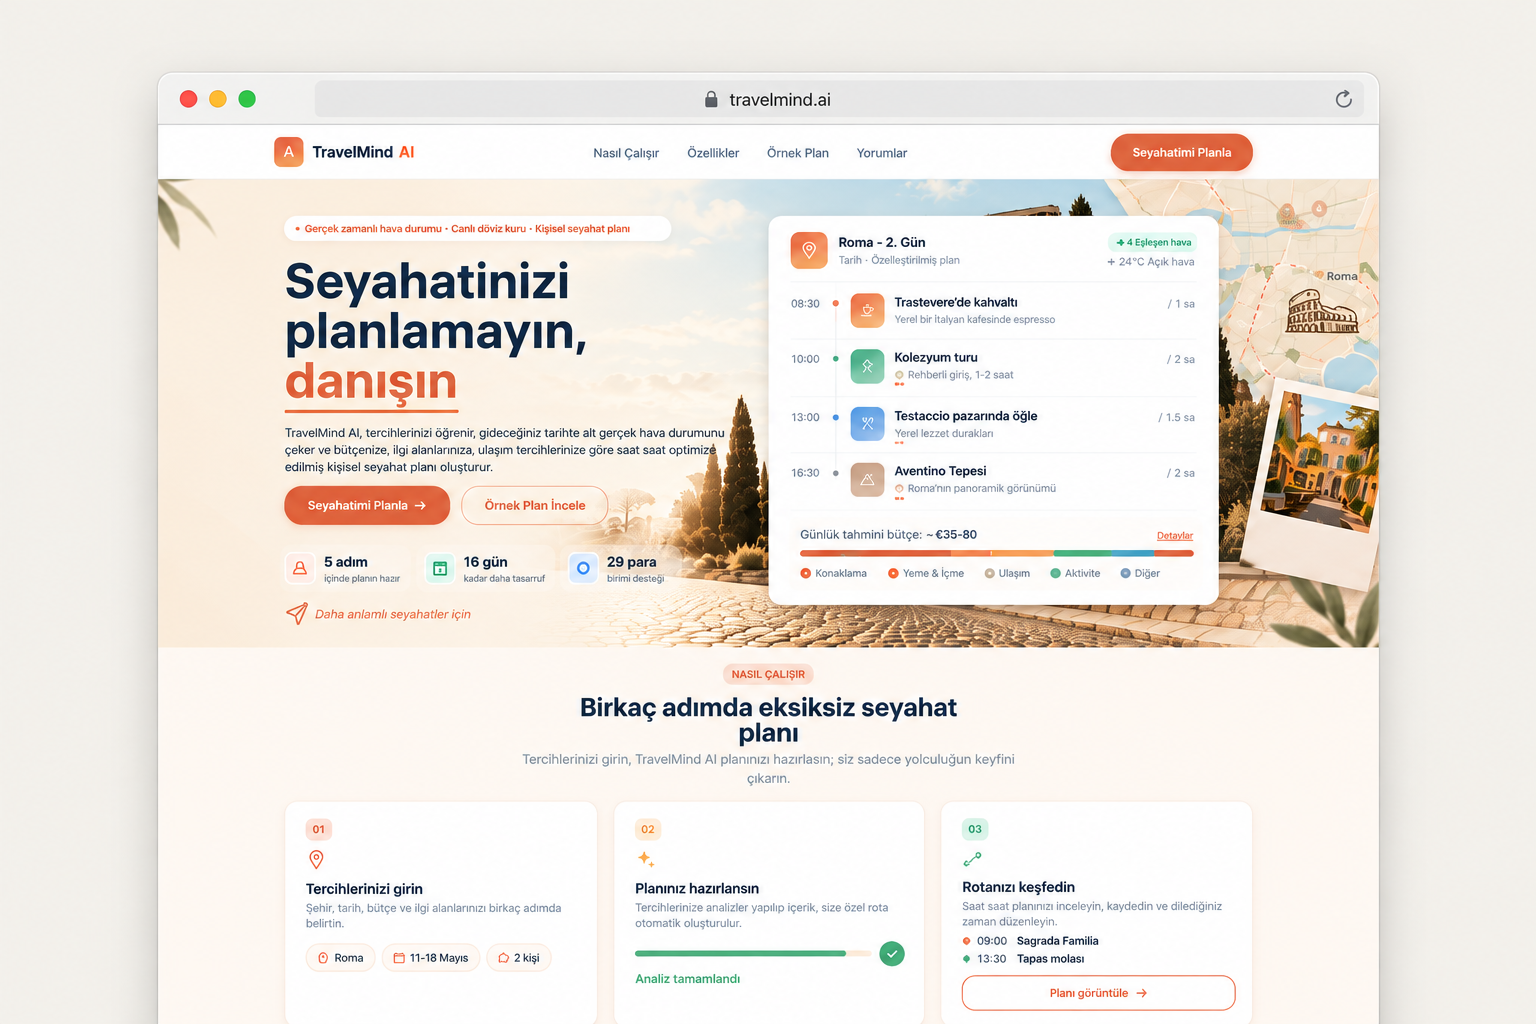
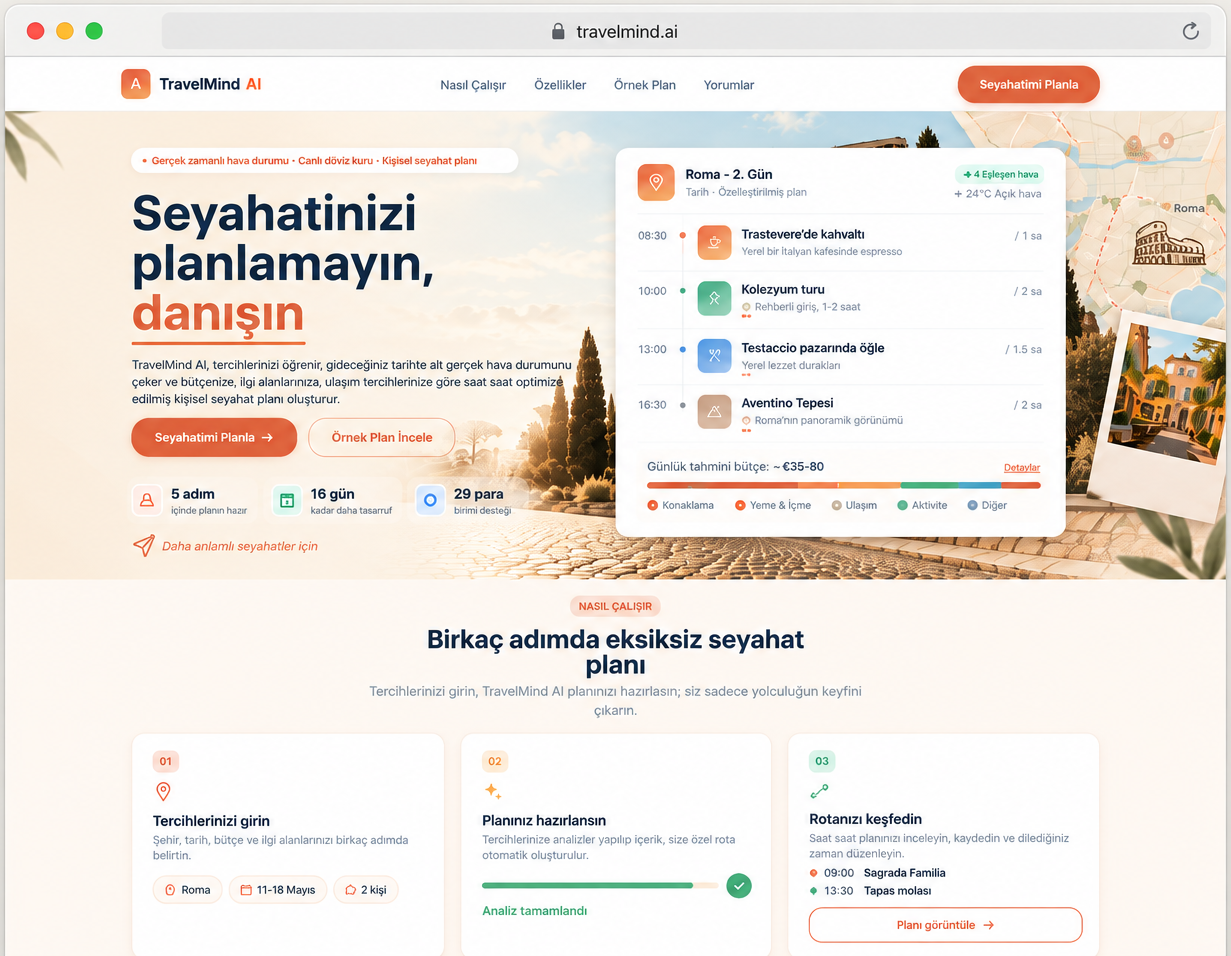
Redesign projects section layout and highlights
- Move "What I built" below the image and details as numbered cards
- Crop screenshot margins and frame it in a card matching text height
- Add technologies label, restyle tech tags and project CTA
- Tighten vertical spacing in project details

diff --git a/components/projects.tsx b/components/projects.tsx
@@ -22,7 +22,9 @@ const tr = {
   featuredLabel: "Öne Çıkan Proje",
   roleLabel: "Rol",
   focusLabel: "Odak",
+  techLabel: "Kullanılan teknolojiler",
   highlightsLabel: "Neler yaptım",
+  highlightsSummary: "Tasarım · Geliştirme · Entegrasyon",
   details: "Projeyi incele",
   screenshotAlt: "TravelMind AI ana sayfasının ekran görüntüsü",
   featured: [
@@ -33,9 +35,18 @@ const tr = {
       role: "UI tasarımı & Frontend geliştirme",
       focus: ["Kişiselleştirme", "Kullanıcı deneyimi", "Responsive yapı"],
       highlights: [
-        "Bütçe, süre ve ilgi alanlarını 5 adımlı bir sihirbazla toplayıp OpenAI API ile saat saat günlük rota ve bütçe dağılımı oluşturan akışı geliştirdim.",
-        "Open-Meteo ile gerçek zamanlı hava durumunu, open.er-api ile 30+ para birimli döviz çeviriciyi API anahtarı gerektirmeden entegre ettim.",
-        "Framework kullanmadan, bağımlılıksız vanilla JavaScript ile giriş/kayıt, yorum sistemi ve PDF indirme özelliklerini geliştirdim.",
+        {
+          title: "Planlama akışı",
+          text: "Bütçe, süre ve ilgi alanlarını toplayan 5 adımlı sihirbazı; saatlik rota ve bütçe dağılımı üretecek şekilde geliştirdim.",
+        },
+        {
+          title: "Gerçek veri entegrasyonları",
+          text: "Open-Meteo hava durumu ve 30+ para birimini destekleyen döviz servislerini API anahtarı gerektirmeden entegre ettim.",
+        },
+        {
+          title: "Bağımsız frontend yapısı",
+          text: "Vanilla JavaScript ile giriş/kayıt, yorum sistemi ve PDF indirme özelliklerini bağımlılıksız olarak geliştirdim.",
+        },
       ],
       type: "Web uygulaması",
     },
@@ -48,7 +59,9 @@ const en: typeof tr = {
   featuredLabel: "Featured Project",
   roleLabel: "Role",
   focusLabel: "Focus",
+  techLabel: "Technologies used",
   highlightsLabel: "What I built",
+  highlightsSummary: "Design · Development · Integration",
   details: "View project",
   screenshotAlt: "Screenshot of the TravelMind AI homepage",
   featured: [
@@ -59,9 +72,18 @@ const en: typeof tr = {
       role: "UI design & Frontend development",
       focus: ["Personalization", "User experience", "Responsive layout"],
       highlights: [
-        "Built a 5-step wizard that collects budget, duration and interests, then uses the OpenAI API to generate an hour-by-hour daily itinerary with a budget breakdown.",
-        "Integrated real-time weather via Open-Meteo and a currency converter for 30+ currencies via open.er-api, with no API keys required.",
-        "Built sign-in/sign-up, a comment system and PDF export in dependency-free vanilla JavaScript, without any framework.",
+        {
+          title: "Planning flow",
+          text: "Built a 5-step wizard that collects budget, duration and interests, then generates an hourly itinerary and budget breakdown.",
+        },
+        {
+          title: "Real-data integrations",
+          text: "Integrated Open-Meteo weather and a currency service supporting 30+ currencies, with no API keys required.",
+        },
+        {
+          title: "Standalone frontend",
+          text: "Built sign-in/sign-up, a comment system and PDF export in vanilla JavaScript with zero dependencies.",
+        },
       ],
       type: "Web app",
     },
@@ -90,79 +112,116 @@ export function Projects() {
 
         <div className="flex flex-col gap-20 sm:gap-24">
           {t.featured.map((project) => (
-            <div
-              key={project.slug}
-              className="grid items-center gap-10 lg:grid-cols-[1.15fr_1fr] lg:gap-14 xl:gap-16"
-            >
-              {/* Görselin kendi tarayıcı çerçevesi ve arka planı var; üstüne ek çerçeve koymuyoruz. */}
-              <div>
-                <a
-                  href={project.liveUrl}
-                  target="_blank"
-                  rel="noreferrer"
-                  className="block overflow-hidden rounded-2xl border border-border"
-                >
-                  <Image
-                    src={project.image}
-                    alt={t.screenshotAlt}
-                    placeholder="blur"
-                    sizes="(min-width: 1024px) 640px, 100vw"
-                    className="h-auto w-full"
-                  />
-                </a>
-                <p className="mt-4 text-sm text-body">
-                  {project.type} · {project.year}
-                </p>
-              </div>
-
-              <div>
-                <p className="font-heading text-xs font-semibold tracking-[0.12em] text-body uppercase">
-                  {t.featuredLabel}
-                </p>
-                <h3 className="mt-3 text-4xl leading-tight font-bold sm:text-5xl lg:text-[56px]">
-                  {project.title}
-                </h3>
-                <p className="mt-5 max-w-xl text-base leading-relaxed text-body sm:text-lg">{project.tagline}</p>
-
-                <dl className="mt-8 grid grid-cols-[auto_auto_1fr] gap-x-4 gap-y-3 border-t border-border pt-8 text-[15px] sm:text-base">
-                  <dt className="font-heading font-bold text-title">{t.roleLabel}</dt>
-                  <dd className="text-body" aria-hidden="true">—</dd>
-                  <dd className="text-body">{project.role}</dd>
-                  <dt className="font-heading font-bold text-title">{t.focusLabel}</dt>
-                  <dd className="text-body" aria-hidden="true">—</dd>
-                  <dd className="text-body">{project.focus.join(" · ")}</dd>
-                </dl>
-
-                <p className="mt-8 font-heading text-xs font-semibold tracking-[0.12em] text-body uppercase">
-                  {t.highlightsLabel}
-                </p>
-                <ul className="mt-3 flex flex-col gap-2.5 text-[15px] leading-relaxed text-body">
-                  {project.highlights.map((item) => (
-                    <li key={item} className="flex gap-3">
-                      <span className="mt-[9px] size-1.5 shrink-0 bg-primary" aria-hidden="true" />
-                      {item}
-                    </li>
-                  ))}
-                </ul>
-
-                <ul className="mt-7 flex flex-wrap gap-3">
-                  {project.tech.map((tech) => (
-                    <li key={tech} className="rounded-full border border-border px-4 py-2 text-sm text-title">
-                      {tech}
-                    </li>
-                  ))}
-                </ul>
-
-                <div className="mt-9">
+            <div key={project.slug}>
+              <div className="grid gap-10 lg:grid-cols-[1.15fr_1fr] lg:gap-14 xl:gap-16">
+                {/* lg'de satır yüksekliğini metin sütunu belirler; görsel mutlak konumlanıp bu yüksekliği doldurur. */}
+                <div className="flex flex-col">
                   <a
                     href={project.liveUrl}
                     target="_blank"
                     rel="noreferrer"
-                    className="inline-flex items-center gap-2 rounded-full bg-primary px-7 py-3.5 text-base font-semibold text-white transition-colors hover:bg-primary-hover"
+                    className="relative block rounded-2xl border border-border bg-surface p-2.5 transition-colors hover:border-accent sm:p-3 lg:min-h-80 lg:flex-1"
                   >
-                    {t.details} →
+                    <div className="lg:absolute lg:inset-3">
+                      <Image
+                        src={project.image}
+                        alt={t.screenshotAlt}
+                        placeholder="blur"
+                        sizes="(min-width: 1024px) 640px, 100vw"
+                        className="h-auto w-full rounded-xl border border-border lg:h-full lg:object-cover lg:object-top"
+                      />
+                    </div>
                   </a>
+                  <p className="mt-4 text-sm text-body">
+                    {project.type} · {project.year}
+                  </p>
                 </div>
+
+                <div>
+                  <p className="font-heading text-xs font-semibold tracking-[0.12em] text-body uppercase">
+                    {t.featuredLabel}
+                  </p>
+                  <h3 className="mt-1.5 text-4xl leading-tight font-bold sm:text-5xl lg:text-[56px]">
+                    {project.title}
+                  </h3>
+                  <p className="mt-3 max-w-xl text-base leading-normal text-body sm:text-lg">
+                    {project.tagline}
+                  </p>
+
+                  <dl className="mt-4 grid grid-cols-[auto_auto_1fr] gap-x-4 gap-y-1.5 border-t border-border pt-4 text-[15px] sm:text-base">
+                    <dt className="font-heading font-bold text-title">
+                      {t.roleLabel}
+                    </dt>
+                    <dd className="text-body" aria-hidden="true">
+                      —
+                    </dd>
+                    <dd className="text-body">{project.role}</dd>
+                    <dt className="font-heading font-bold text-title">
+                      {t.focusLabel}
+                    </dt>
+                    <dd className="text-body" aria-hidden="true">
+                      —
+                    </dd>
+                    <dd className="text-body">{project.focus.join(" · ")}</dd>
+                  </dl>
+
+                  <p className="mt-4 font-heading text-xs font-semibold tracking-[0.12em] text-body uppercase">
+                    {t.techLabel}
+                  </p>
+                  <ul className="mt-2.5 flex flex-wrap gap-2">
+                    {project.tech.map((tech) => (
+                      <li
+                        key={tech}
+                        className="rounded-full bg-surface px-3.5 py-1.5 text-[13px] font-medium text-title"
+                      >
+                        {tech}
+                      </li>
+                    ))}
+                  </ul>
+
+                  <div className="mt-5 border-t border-border pt-5">
+                    <a
+                      href={project.liveUrl}
+                      target="_blank"
+                      rel="noreferrer"
+                      className="group inline-flex items-center gap-3 rounded-lg bg-title py-2 pr-2 pl-6 text-base font-semibold text-white shadow-sm transition-colors hover:bg-primary"
+                    >
+                      {t.details}
+                      <span
+                        aria-hidden="true"
+                        className="grid size-9 place-items-center rounded-md bg-white/15 transition-transform group-hover:translate-x-0.5 group-hover:-translate-y-0.5"
+                      >
+                        ↗
+                      </span>
+                    </a>
+                  </div>
+                </div>
+              </div>
+
+              <div className="mt-8 border-t border-border pt-5 sm:mt-10">
+                <div className="flex flex-wrap items-baseline justify-between gap-2">
+                  <p className="font-heading text-xs font-bold tracking-[0.12em] text-title uppercase">
+                    {t.highlightsLabel}
+                  </p>
+                  <p className="text-sm text-body">{t.highlightsSummary}</p>
+                </div>
+                {/* Ayırıcı çizgiler kartın üst/alt kenarına değmesin diye dikey boşluk li'de değil ol'da. */}
+                <ol className="mt-3 grid gap-5 rounded-xl border border-border bg-card py-5 md:grid-cols-3 md:gap-0">
+                  {project.highlights.map((item, i) => (
+                    <li
+                      key={item.title}
+                      className="border-t border-border px-6 pt-5 first:border-t-0 first:pt-0 sm:px-10 md:border-t-0 md:border-l md:pt-0 md:first:border-l-0"
+                    >
+                      <span className="font-heading text-sm font-medium text-body">
+                        {String(i + 1).padStart(2, "0")}
+                      </span>
+                      <h4 className="mt-1 text-lg font-bold">{item.title}</h4>
+                      <p className="mt-1 text-[15px] leading-relaxed text-body">
+                        {item.text}
+                      </p>
+                    </li>
+                  ))}
+                </ol>
               </div>
             </div>
           ))}
